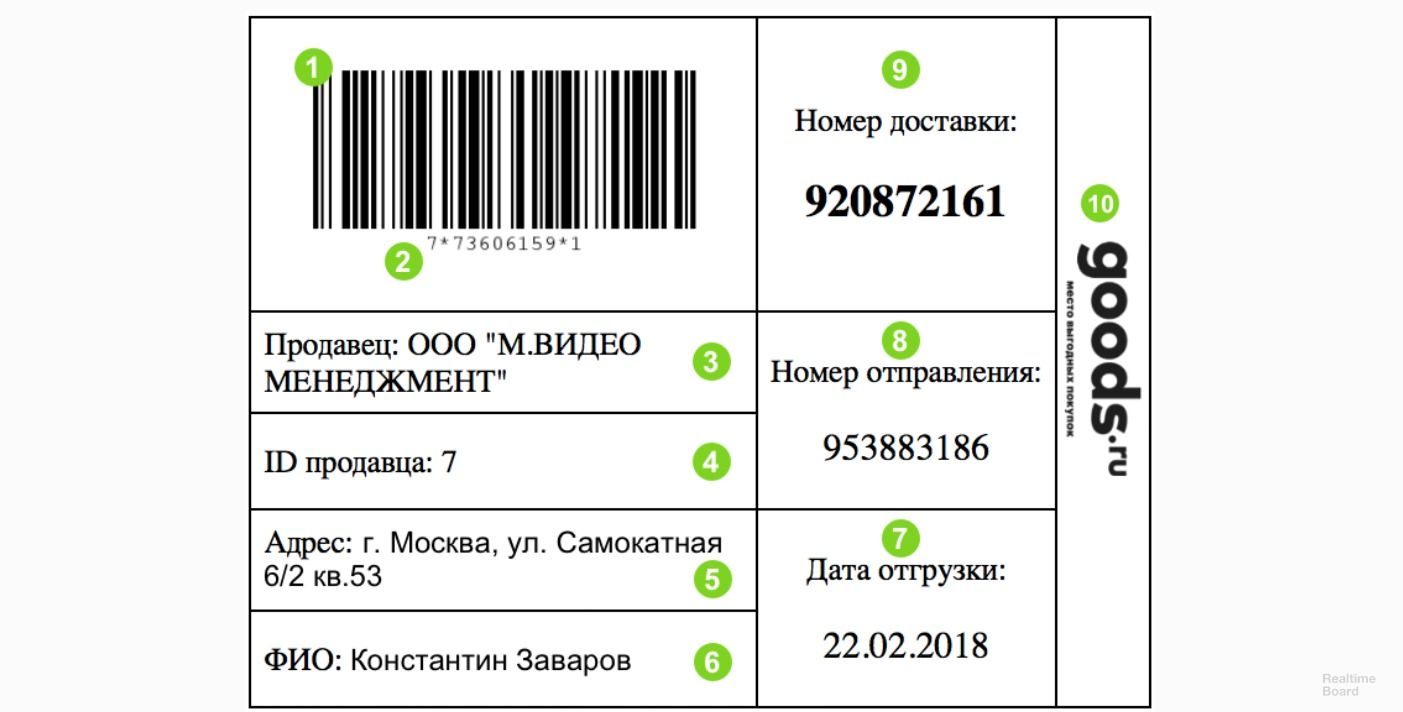
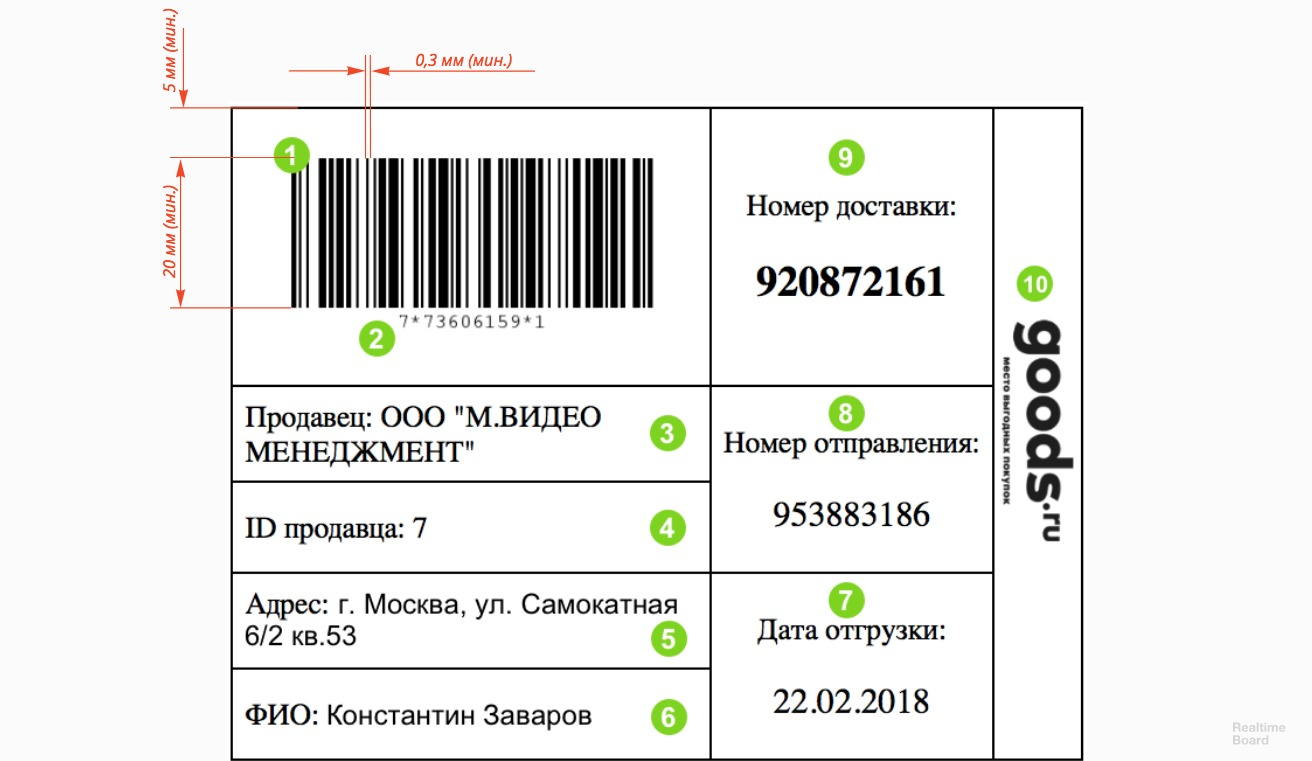
fix barcode

Changed region(s): [[0.125, 0.0, 0.8438, 1.0], [0.1875, 0.0, 0.8125, 0.0309], [0.9375, 0.9579, 0.9688, 0.9888]]

diff --git a/index.html b/index.html
@@ -11,7 +11,11 @@
 
 <h1></h1>
 
-<p>Партнерский API предназначен для автоматизированного обмена данными между продавцами и goods. API служит для управления заказами, оформленными покупателями на маркетплейсе goods.</p>
+<p>Партнерский API предназначен для автоматизированного обмена данными между продавцами и goods. API делает работу с заказами удобнее: операторы будут тратить меньше времени на обработку заказов.</p>
+
+<p>Для подготовки API вам понадобится помощь разработчика.</p>
+
+<p>Чтобы не тратить время, при подключении вы можете выбрать работу с заказами в личном кабинете, а затем перейти на API.</p>
 
 <p>Документ предназначен для разработчиков приложений. В документе приведены примеры запросов и ответов с демонстрационными данными.</p>
 
@@ -29,6 +33,7 @@
 	<li><a href="#yml">Загрузка прайс-листа в формате YML</a></li>
 	<li><a href="#label_info">Требования к маркировочному листу</a></li>
 	<li><a href="#registry_info">Требования к реестру отгрузки</a></li>
+	<li>Как пройти проверку при подключении API</li>
 	<li><a href="#faq">Вопросы и ответы</a></li>
 </ol>
 
@@ -298,7 +303,14 @@
 <ol>
 	<li><strong>Штрих-код в формате Code 128</strong> (<a href="https://ru.wikipedia.org/wiki/Code_128">подробнее о формате</a>)
 
-		<p>Представляет собой закодированный идентификатор грузового места. Используется для распознавания грузового места на Сортировочном Центре goods.</p></li>
+		<p>Представляет собой закодированный идентификатор грузового места. Используется для распознавания грузового места на Сортировочном Центре goods.</p>
+
+		<ul>
+			<li>минимальная ширина линии штрих-кода (<code>Х -Dimension</code>) — 0,3 мм;</li>
+			<li>минимальная высота штрих-кода (<code>barcodeheight</code>) — 20 мм;</li>
+			<li>пустая зона вокруг штрих-кода (<code>quietzone</code>) – не менее 5 мм;</li>
+			<li>качество штрих-кода — <code>gradeB</code> по стандарту ANSI или лучше,</li>
+		</ul></li>
 	<li><strong>Идентификатор грузового места</strong>
 
 		<p>Уникальный идентификатор, однозначно идентифицирующий грузовое место продавца. </p>
@@ -388,6 +400,16 @@
 	<li><strong>Объявленная стоимость места, руб</strong></li>
 	<li><strong>Объявленная стоимость отправления, руб</strong></li>
 </ol>
+
+<hr />
+
+<h2>Как пройти проверку при подключении к API</h2>
+
+<p>Важное условие работы goods —&nbsp;сохранять доверие пользователей к сервису и к магазинам, которые на нем размещаются. Поэтому при подключении все магазины обязательно проходят проверку или премодерацию.</p>
+
+<p> Что проверяет goods</p>
+
+<p>Как проходит проверка</p>
 
 <hr />
 
